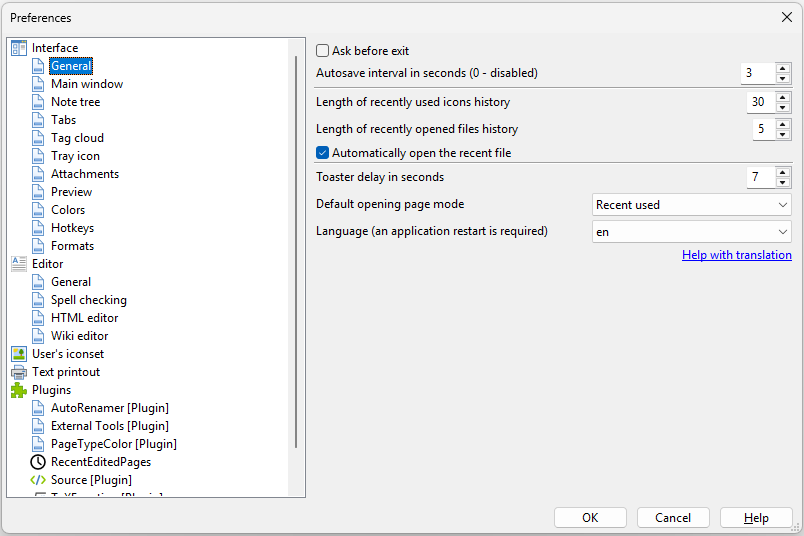
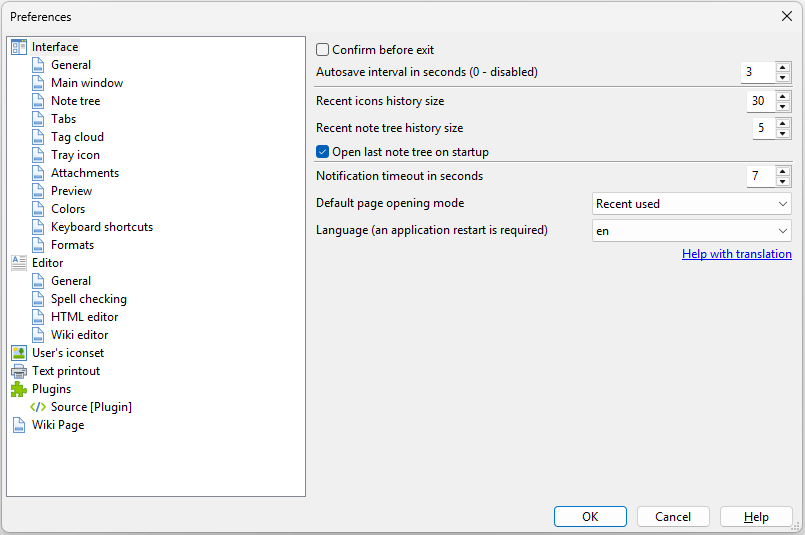
Update screenshots in help

diff --git a/src/outwiker/data/help/help_ru/Preferences/Interface - General/__content.html b/src/outwiker/data/help/help_ru/Preferences/Interface - General/__content.html
@@ -38,11 +38,11 @@
 <br/>
 Поле ввода <span class="notice">Размер истории последних используемых значков</span> позволяет задать количество значков, которое будет храниться в списке последних используемых значков в диалоге создания и редактирования свойств страницы.<br/>
 <br/>
-Поле ввода <span class="notice">Размер истории открытых файлов</span> позволяет задать, насколько длинным должен быть список последних открытых баз заметок в меню <span class="notice">Файл</span>.<br/>
+Поле ввода <span class="notice">Размер истории открытых деревьев заметок</span> позволяет задать, насколько длинным должен быть список последних открытых баз заметок в меню <span class="notice">Файл</span>.<br/>
 <br/>
-Если установлен флажок <span class="notice">При запуске открывать последний открытый файл</span>, то после перезапуска программы будет открыта последняя используемая база заметок.<br/>
+Если установлен флажок <span class="notice">При запуске открывать последнее используемое дерево заметок</span>, то после перезапуска программы будет открыта последняя используемая база заметок.<br/>
 <br/>
-Поле ввода <span class="notice">Задержка окна сообщений в секундах</span> позволяет задать время в течение которого отображается информационное окно, появляющееся в правом нижнем углу окна программы в случае возникновения каких-либо ошибок или для уведомления о каком-либо событии, произошедшем в программе.<br/>
+Поле ввода <span class="notice">Задержка уведомлений в секундах</span> позволяет задать время в течение которого отображается информационное окно, появляющееся в правом нижнем углу окна программы в случае возникновения каких-либо ошибок или для уведомления о каком-либо событии, произошедшем в программе.<br/>
 <br/>
 Некоторые типы страниц (например, <a class="ow-wiki ow-link-page" href="page://wiki-page">викистраницы</a> и <a class="ow-wiki ow-link-page" href="page://html-page">HTML-страницы</a>) могут отображаться в разных режимах - в <a class="ow-wiki ow-link-page" href="page://settings_interface_preview">режиме просмотра</a> и в режиме редактирования текста заметки. С помощью выпадающего списка <span class="notice">Режим открытия страниц по умолчанию</span> можно выбрать, в каком из этих режимах будет открываться страница при ее выборе в дереве заметок. С помощью данного параметра можно сделать так, чтобы выбираемая страница изначально всегда открывалась в режиме просмотра или режиме редактирования, а также можно установить, что страница будет открываться в том режиме, в котором она была открыта при последнем посещении этой страницы.<br/>
 <br/>
